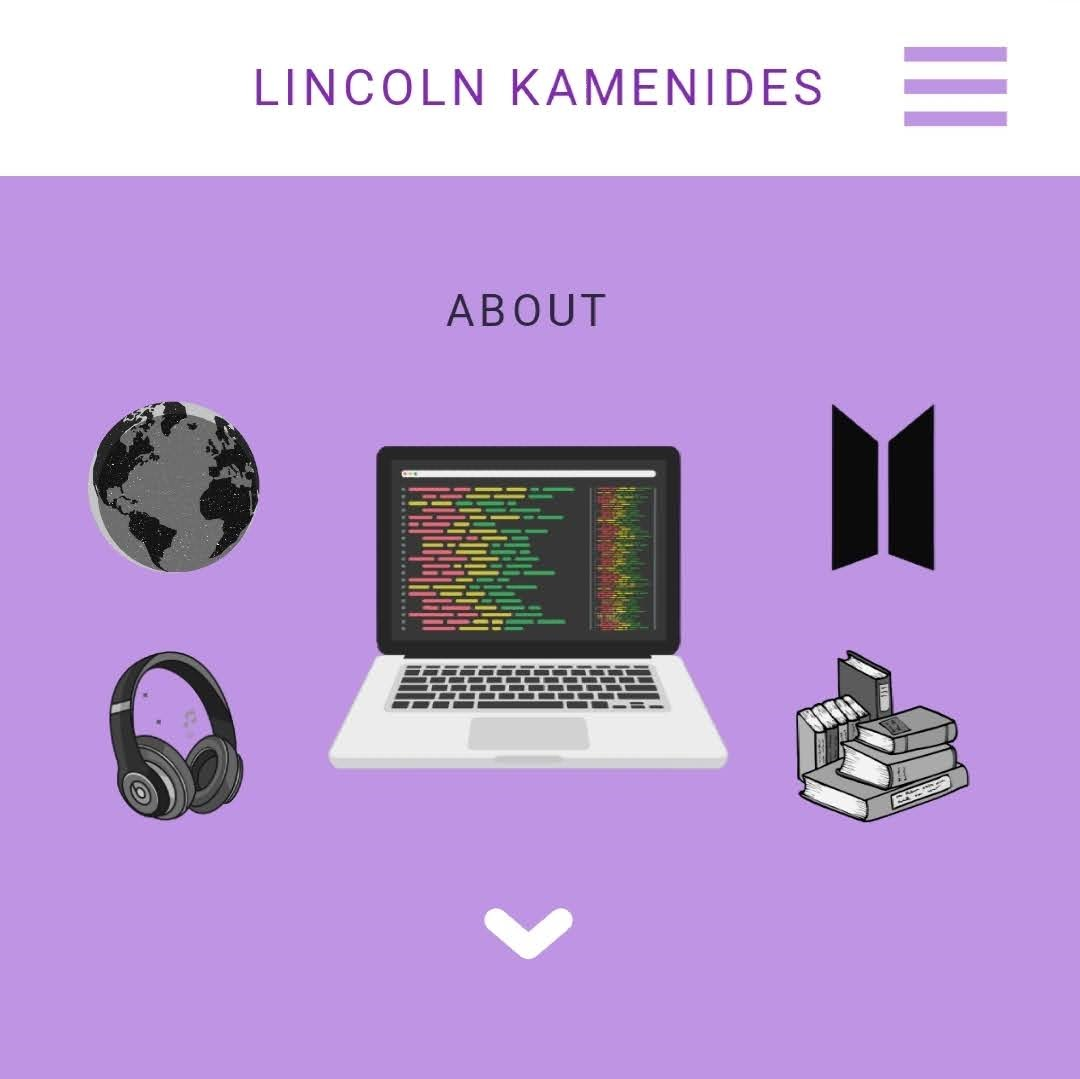
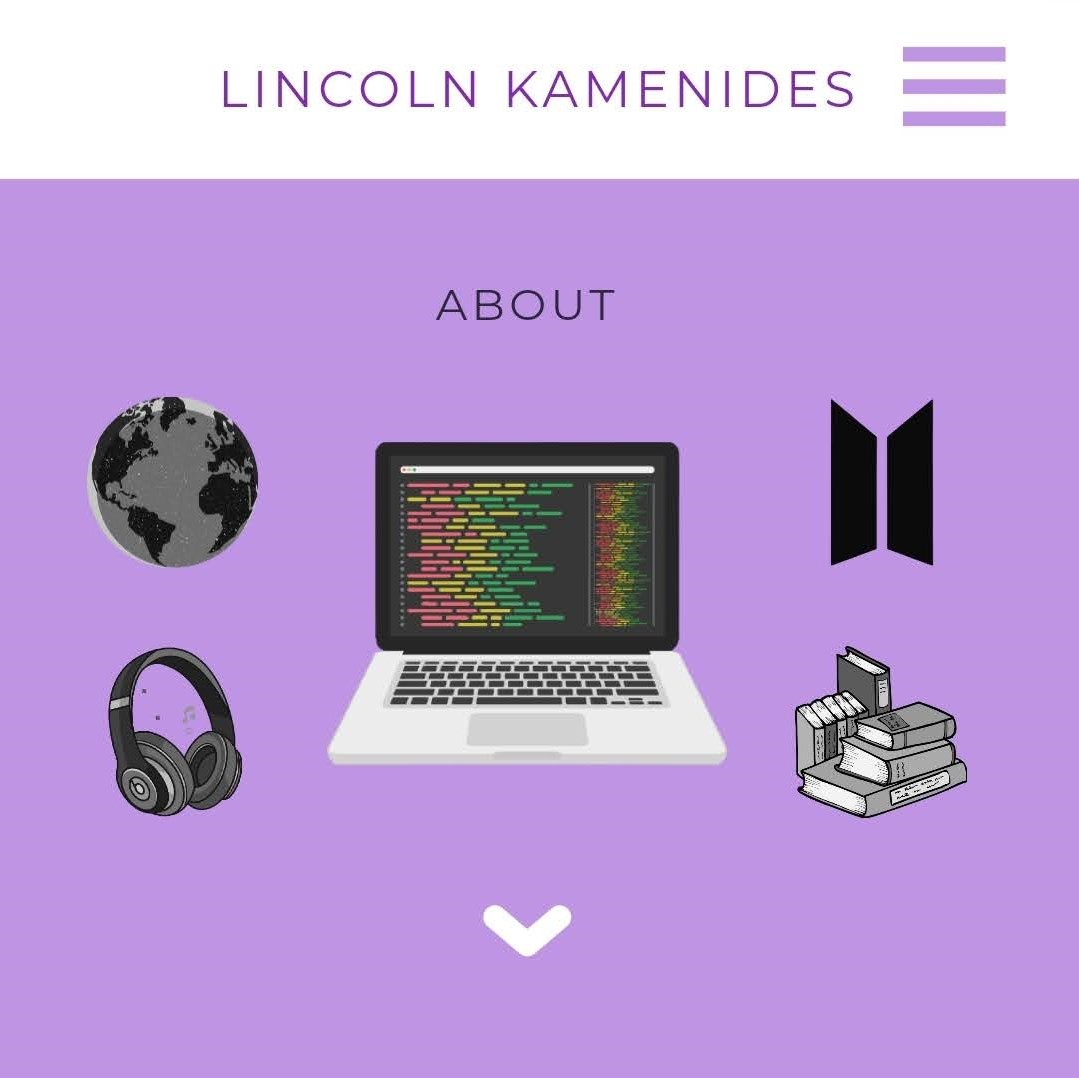
replaced one of the about pics

diff --git a/index.html b/index.html
@@ -114,25 +114,25 @@
                 </div>
               </td>
               <td>
-                <img src="images/bts.png" class="fade-in small-img bts" onclick="openImage(this, 'bts')"
-                  alt="BTS.">
-                <div class="modal-item" id="bts">
+                <img src="images/cat.png" class="fade-in small-img cat" onclick="openImage(this, 'cat')"
+                  alt="cat">
+                <div class="modal-item" id="cat">
                   <div class="pointBoxArrow">
                     <svg class="pointBoxArrow pointBoxArrowLeft" xmlns="http://www.w3.org/2000/svg" viewBox="0 0 192 512">
                       <path fill="#ffffff" d="M0 384.662V127.338c0-17.818 21.543-26.741 34.142-14.142l128.662 128.662c7.81 7.81 7.81 20.474 0 28.284L34.142 398.804C21.543 411.404 0 402.48 0 384.662z"></path>
                     </svg>
                   </div>
                   <div class="modal-background left">
-                    <span class="close bts" id="close-box">&times;</span>
+                    <span class="close cat" id="close-box">&times;</span>
                     <div class="modal-box">
-                      <h id="title">BTS</h>
+                      <h id="title">Animals</h>
                     </div>
                     <div class="modal-box">
                       <div class="description">
-                        BTS is one of my favorite musical artists. They share a wonderful message about staying true to yourself and learning how to love yourself. Watch one of their music videos below!
+                        I am an animal lover and have had various pets throughout my life. My current pet is pictured below and her name is Luna.
                       </div>
                     </div>
-                    <iframe width="250" height="140" src="https://www.youtube.com/embed/gdZLi9oWNZg" frameborder="0" allow="accelerometer; autoplay; clipboard-write; encrypted-media; gyroscope; picture-in-picture" allowfullscreen></iframe>
+                    <img class="modal-content"src="images/luna.jpg" alt="cat">
                   </div>
                 </div>
               </td>

diff --git a/script.js b/script.js
@@ -55,7 +55,7 @@ function toggleSideBar() { // toggles the menu-button open and closed
 
 // open image modal on about section
 function openImage(image, item) { //opens image in about with modal
- var modals = ['world', 'coding', 'bts', 'music', 'books'];
+ var modals = ['world', 'coding', 'cat', 'music', 'books'];
 
  // Get the modal
  var modal = document.getElementById(item);
